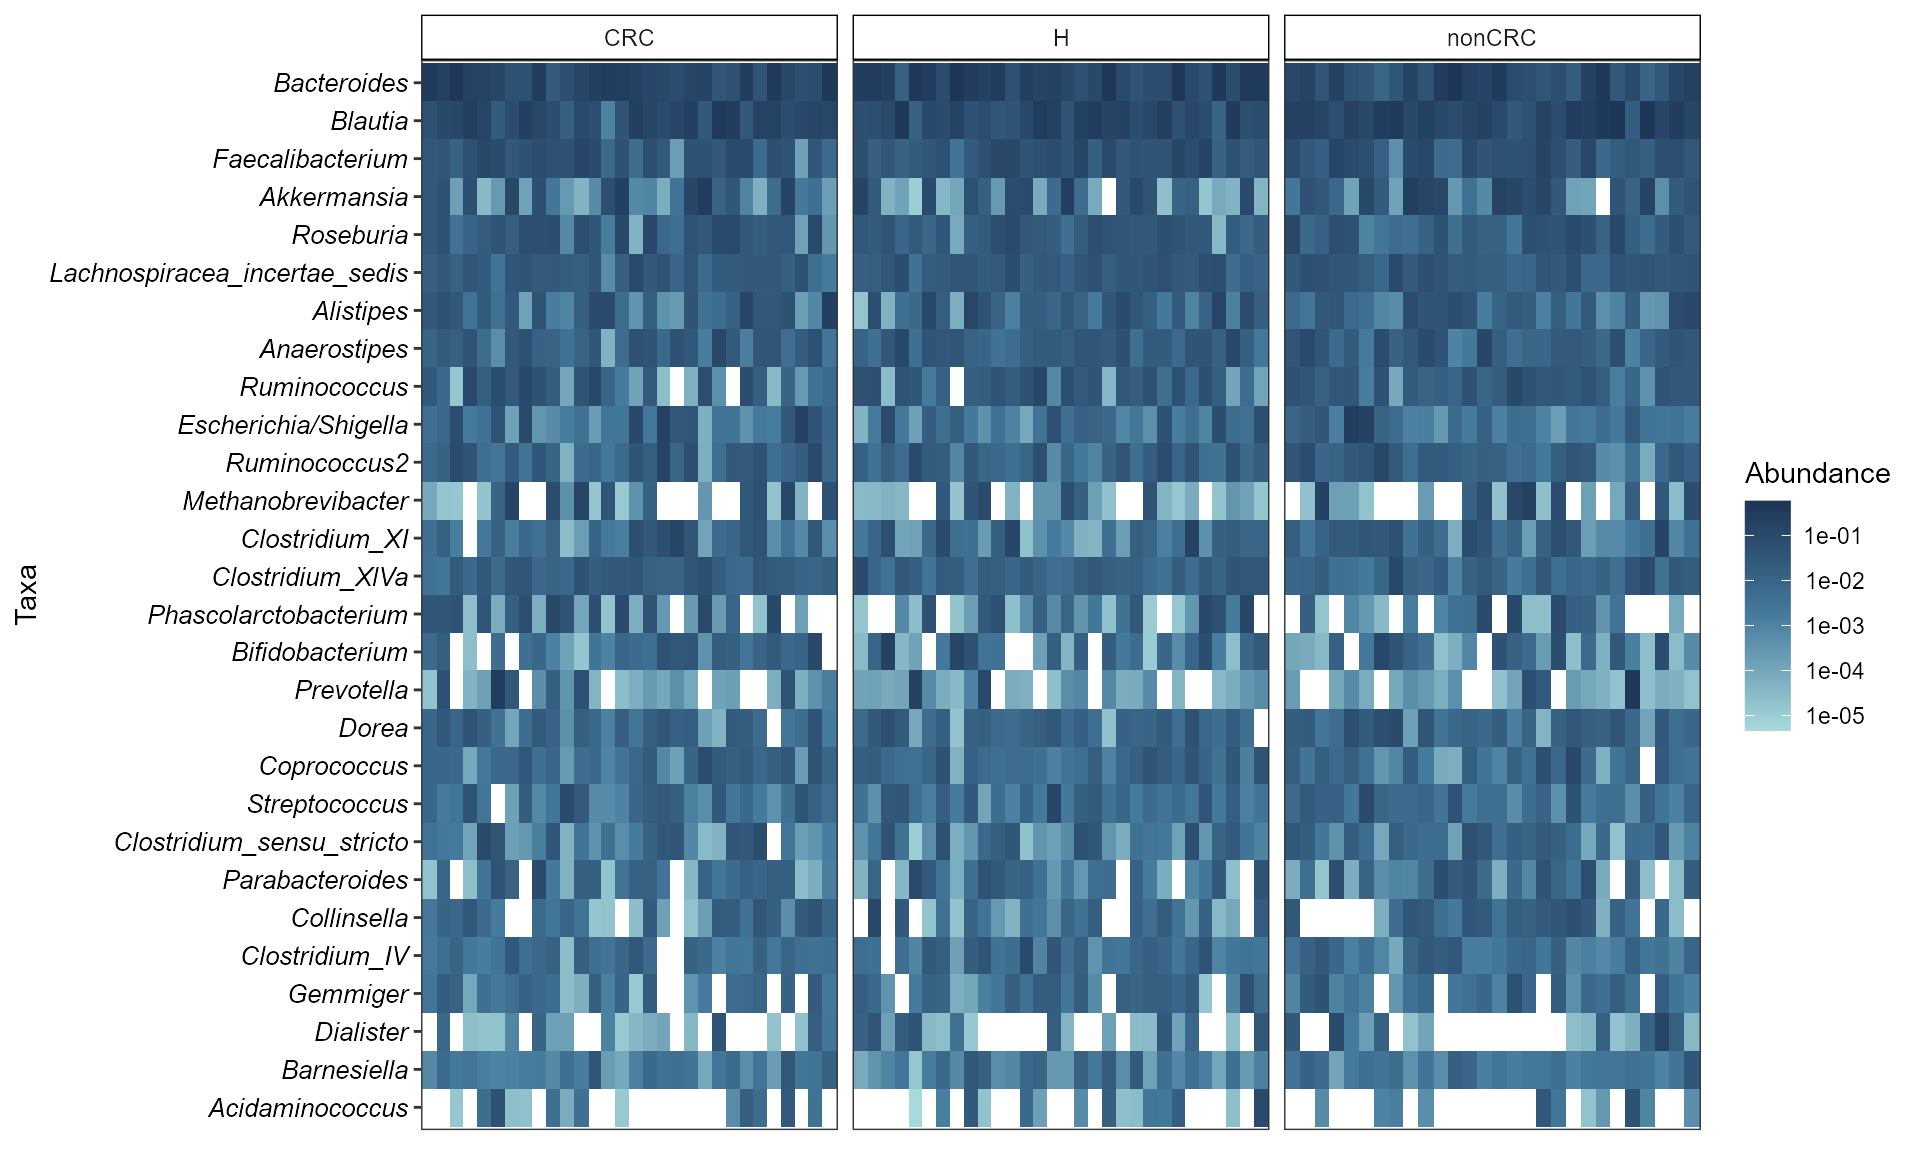
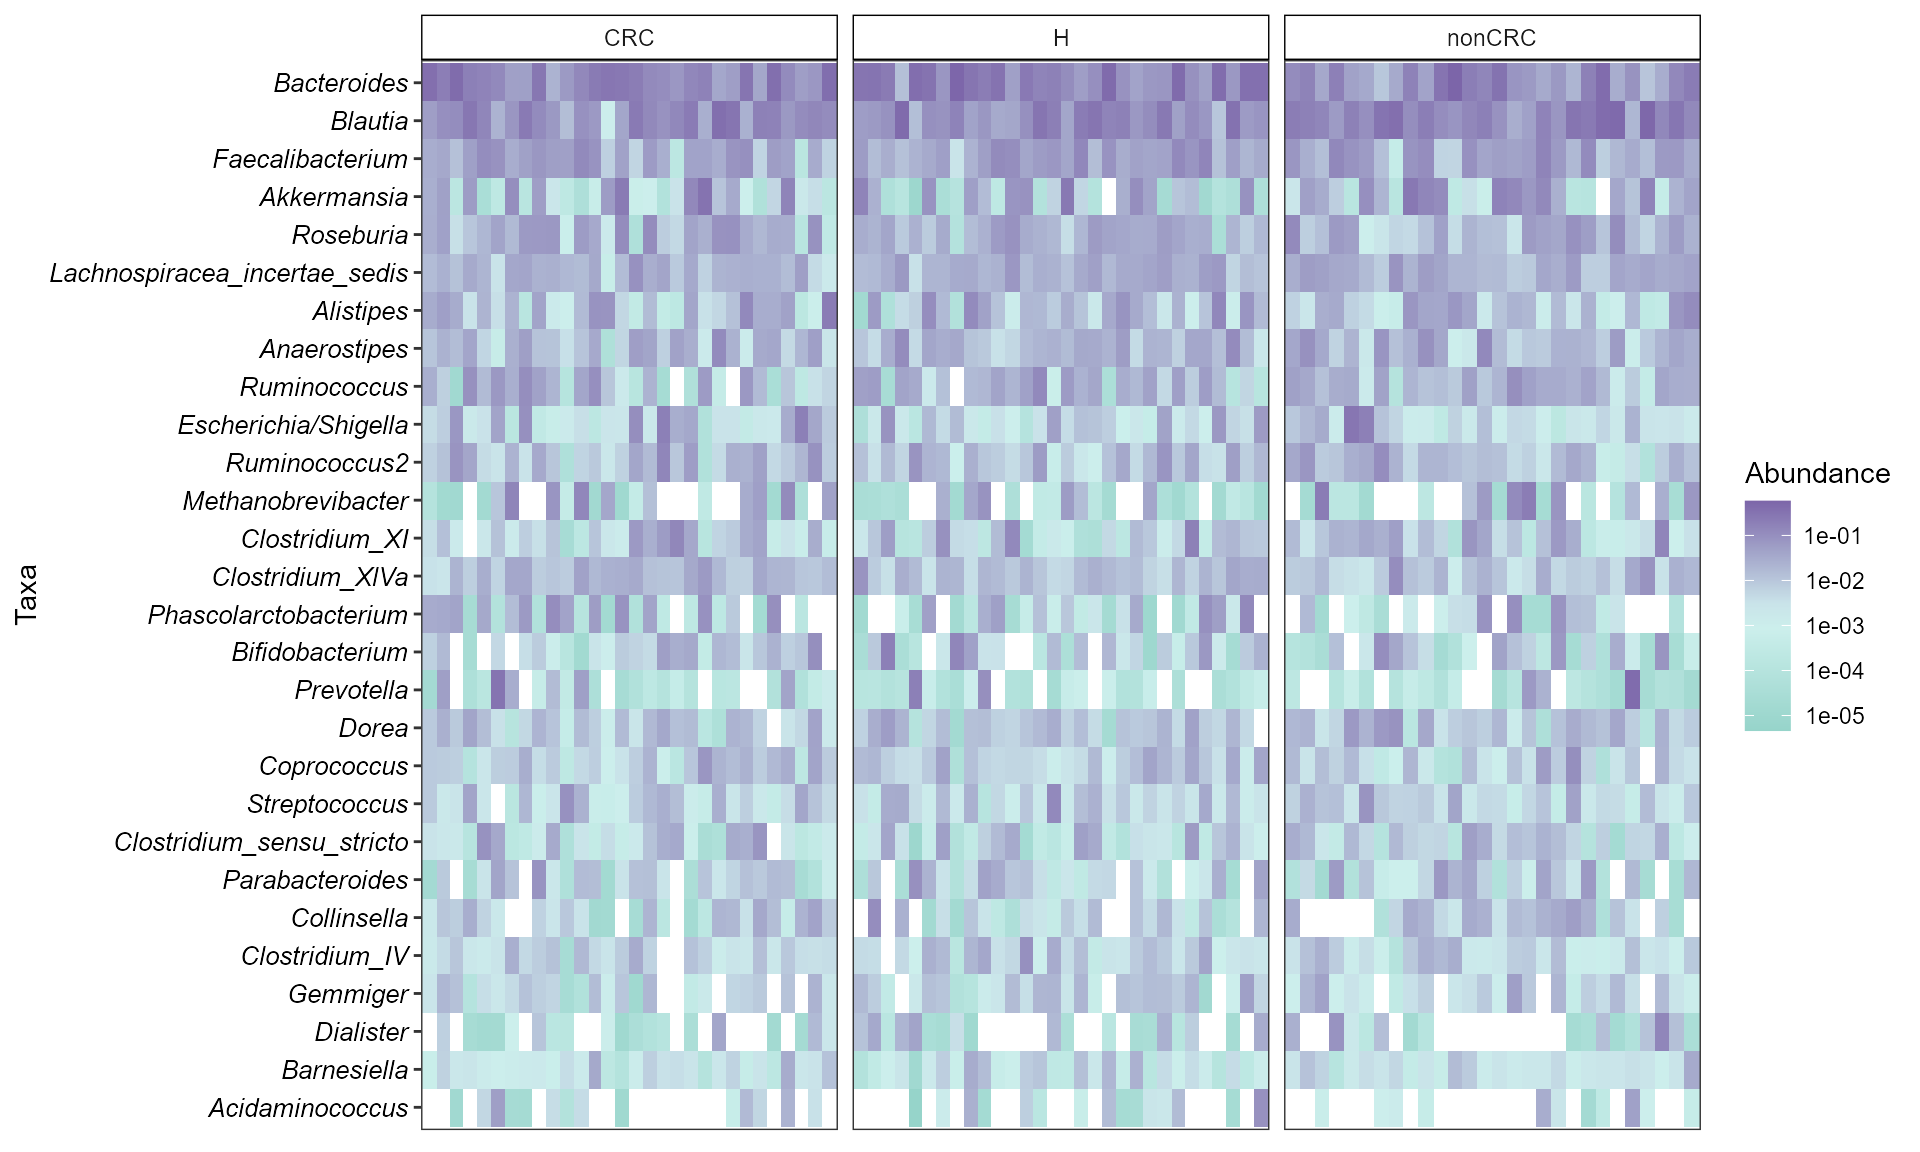
up

diff --git a/docs/articles/microbiomeutilities.html b/docs/articles/microbiomeutilities.html
@@ -651,6 +651,7 @@ This best works with cleaned taxonomy table.</empty></p>
 <h3 class="hasAnchor">
 <a href="#rarefaction-curves-for-alpha-diversity-indices" class="anchor"></a>Rarefaction curves for alpha diversity indices</h3>
 <p>A common approach to check for sequencing depth and diversity measures.</p>
+<p><em>NOTE:</em> This can take sometime to complete.</p>
 <div class="sourceCode" id="cb15"><pre class="downlit">
 <span class="fu"><a href="https://rdrr.io/r/base/library.html">library</a></span>(<span class="kw">microbiomeutilities</span>)
 <span class="fu"><a href="https://rdrr.io/r/utils/data.html">data</a></span>(<span class="st">"zackular2014"</span>)
@@ -672,7 +673,7 @@ This best works with cleaned taxonomy table.</empty></p>
   <span class="fu">scale_fill_manual</span>(values = <span class="kw">mycols</span>)
 <span class="fu"><a href="https://rdrr.io/r/base/print.html">print</a></span>(<span class="kw">p</span>)
 </pre></div>
-<p><img src="microbiomeutilities_files/figure-html/unnamed-chunk-15-1.png" width="700"></p>
+<p><img src="microbiomeutilities_files/figure-html/unnamed-chunk-15-1.png" width="576" style="display: block; margin: auto;"></p>
 </div>
 <div id="plot-alpha-diversities" class="section level3">
 <h3 class="hasAnchor">
@@ -694,7 +695,7 @@ This best works with cleaned taxonomy table.</empty></p>
 <span class="fu"><a href="https://rdrr.io/r/base/print.html">print</a></span>(<span class="kw">p</span> <span class="op">+</span> <span class="fu"><a href="../reference/theme_biome_utils.html">theme_biome_utils</a></span>() <span class="op">+</span> 
         <span class="kw">ggplot2</span>::<span class="fu"><a href="https://ggplot2.tidyverse.org/reference/theme.html">theme</a></span>(legend.position = <span class="st">"top"</span>,                                               text = <span class="fu">element_text</span>(size=<span class="fl">14</span>)))
 </pre></div>
-<p><img src="microbiomeutilities_files/figure-html/unnamed-chunk-16-1.png" width="576"></p>
+<p><img src="microbiomeutilities_files/figure-html/unnamed-chunk-16-1.png" width="576" style="display: block; margin: auto;"></p>
 <div class="sourceCode" id="cb17"><pre class="downlit">
 <span class="kw">comps</span> <span class="op">&lt;-</span> <span class="fu"><a href="../reference/make_pairs.html">make_pairs</a></span>(<span class="fu">sample_data</span>(<span class="kw">ps0</span>)<span class="op">$</span><span class="kw">DiseaseState</span>)
 
@@ -707,7 +708,7 @@ This best works with cleaned taxonomy table.</empty></p>
 <span class="co">#&gt; Warning in wilcox.test.default(c(7855, 4967, 16964, 6997, 11425, 17013, : cannot</span>
 <span class="co">#&gt; compute exact p-value with ties</span>
 </pre></div>
-<p><img src="microbiomeutilities_files/figure-html/unnamed-chunk-17-1.png" width="768"></p>
+<p><img src="microbiomeutilities_files/figure-html/unnamed-chunk-17-1.png" width="768" style="display: block; margin: auto;"></p>
 <p>Alternatively, one can plot one index at a time with pair-wise stats.</p>
 <div class="sourceCode" id="cb18"><pre class="downlit">
 
@@ -725,7 +726,7 @@ This best works with cleaned taxonomy table.</empty></p>
                             stats = <span class="fl">TRUE</span>)
 <span class="kw">p.m</span> <span class="op">+</span> <span class="fu">ylab</span>(<span class="st">"Shannon Diversity"</span>) <span class="op">+</span> <span class="fu">xlab</span>(<span class="st">""</span>)
 </pre></div>
-<p><img src="microbiomeutilities_files/figure-html/unnamed-chunk-18-1.png" width="384"></p>
+<p><img src="microbiomeutilities_files/figure-html/unnamed-chunk-18-1.png" width="384" style="display: block; margin: auto;"></p>
 <div class="sourceCode" id="cb19"><pre class="downlit">
 <span class="fu"><a href="https://rdrr.io/r/base/library.html">library</a></span>(<span class="kw"><a href="http://microbiome.github.io/microbiome">microbiome</a></span>)
 <span class="fu"><a href="https://rdrr.io/r/base/library.html">library</a></span>(<span class="kw">microbiomeutilities</span>)
@@ -798,7 +799,7 @@ This best works with cleaned taxonomy table.</empty></p>
 
 <span class="fu"><a href="https://rdrr.io/r/base/print.html">print</a></span>(<span class="kw">pn</span> <span class="op">+</span> <span class="fu"><a href="../reference/theme_biome_utils.html">theme_biome_utils</a></span>())
 </pre></div>
-<p><img src="microbiomeutilities_files/figure-html/unnamed-chunk-21-1.png" width="672"></p>
+<p><img src="microbiomeutilities_files/figure-html/unnamed-chunk-21-1.png" width="672" style="display: block; margin: auto;"></p>
 </div>
 <div id="plotting-selected-taxa" class="section level3">
 <h3 class="hasAnchor">
@@ -827,7 +828,7 @@ This best works with cleaned taxonomy table.</empty></p>
 <span class="co">#&gt; An additonal column Sam_rep with sample names is created for reference purpose</span>
 <span class="fu"><a href="https://rdrr.io/r/base/print.html">print</a></span>(<span class="kw">p</span> <span class="op">+</span> <span class="fu">ylab</span>(<span class="st">"Relative abundance"</span>) <span class="op">+</span> <span class="fu">scale_y_continuous</span>(labels = <span class="kw">scales</span>::<span class="kw"><a href="https://scales.r-lib.org//reference/label_percent.html">percent</a></span>))
 </pre></div>
-<p><img src="microbiomeutilities_files/figure-html/unnamed-chunk-22-1.png" width="700"></p>
+<p><img src="microbiomeutilities_files/figure-html/unnamed-chunk-22-1.png" width="700" style="display: block; margin: auto;"></p>
 <p>Adding statistical test with <code><a href="https://rdrr.io/pkg/ggpubr/man/stat_compare_means.html">ggpubr::stat_compare_means()</a></code></p>
 <div class="sourceCode" id="cb23"><pre class="downlit">
 
@@ -849,7 +850,7 @@ This best works with cleaned taxonomy table.</empty></p>
       method = <span class="st">"wilcox.test"</span>)
 <span class="kw">p</span>
 </pre></div>
-<p><img src="microbiomeutilities_files/figure-html/unnamed-chunk-23-1.png" width="700"></p>
+<p><img src="microbiomeutilities_files/figure-html/unnamed-chunk-23-1.png" width="700" style="display: block; margin: auto;"></p>
 <p>Plot top four Genera</p>
 <div class="sourceCode" id="cb24"><pre class="downlit">
 <span class="fu"><a href="https://rdrr.io/r/base/library.html">library</a></span>(<span class="kw"><a href="http://microbiome.github.io/microbiome">microbiome</a></span>)
@@ -885,7 +886,7 @@ This best works with cleaned taxonomy table.</empty></p>
 <span class="co">#&gt; Warning in wilcox.test.default(c(0.0242631263865901, 5.19237758969832e-05, :</span>
 <span class="co">#&gt; cannot compute exact p-value with ties</span>
 </pre></div>
-<p><img src="microbiomeutilities_files/figure-html/unnamed-chunk-24-1.png" width="576"></p>
+<p><img src="microbiomeutilities_files/figure-html/unnamed-chunk-24-1.png" width="576" style="display: block; margin: auto;"></p>
 </div>
 <div id="abundance-prevalence-relationship" class="section level3">
 <h3 class="hasAnchor">
@@ -917,17 +918,13 @@ This can be useful in identifying highly prevalent taxa and thier mean relative 
                        size = <span class="fl">20</span>, 
                        replace = <span class="fl">TRUE</span>,
                        label.color=<span class="st">"#5f0f40"</span>)  
-<span class="co">#&gt; Make sure to set.seed</span>
-<span class="co">#&gt; Joining, by = "Taxa"</span>
-<span class="co">#&gt; Joining, by = "Taxa"</span>
-<span class="co">#&gt; Joining, by = "Taxa"</span>
 <span class="kw">p_v</span> <span class="op">&lt;-</span> <span class="kw">p_v</span> <span class="op">+</span> 
   <span class="fu">geom_vline</span>(xintercept = <span class="fl">0.95</span>, lty=<span class="st">"dashed"</span>, alpha=<span class="fl">0.7</span>) <span class="op">+</span> 
   <span class="fu">geom_hline</span>(yintercept = <span class="fl">0.01</span>,lty=<span class="st">"dashed"</span>, alpha=<span class="fl">0.7</span>) <span class="op">+</span>
   <span class="fu">scale_color_brewer</span>(palette = <span class="st">"Dark2"</span>)
 <span class="kw">p_v</span>
 </pre></div>
-<p><img src="microbiomeutilities_files/figure-html/unnamed-chunk-25-1.png" width="576"></p>
+<p><img src="microbiomeutilities_files/figure-html/unnamed-chunk-25-1.png" width="576" style="display: block; margin: auto;"></p>
 </div>
 </div>
 <div id="microbiota-plasticity" class="section level2">
@@ -983,7 +980,7 @@ This can be useful in identifying highly prevalent taxa and thier mean relative 
   <span class="fu"><a href="https://rdrr.io/pkg/ggpubr/man/stat_compare_means.html">stat_compare_means</a></span>() <span class="op">+</span> 
   <span class="fu"><a href="../reference/theme_biome_utils.html">theme_biome_utils</a></span>()
 </pre></div>
-<p><img src="microbiomeutilities_files/figure-html/unnamed-chunk-27-1.png" width="700"></p>
+<p><img src="microbiomeutilities_files/figure-html/unnamed-chunk-27-1.png" width="384" style="display: block; margin: auto;"></p>
 </div>
 </div>
 <div id="heatmaps" class="section level2">
@@ -1034,7 +1031,7 @@ This can be useful in identifying highly prevalent taxa and thier mean relative 
 <span class="co">#&gt; Warning in transform(phyobj1, "log10"): OTU table contains zeroes. Using log10(1</span>
 <span class="co">#&gt; + x) transform.</span>
 </pre></div>
-<p><img src="microbiomeutilities_files/figure-html/unnamed-chunk-28-1.png" width="768"></p>
+<p><img src="microbiomeutilities_files/figure-html/unnamed-chunk-28-1.png" width="768" style="display: block; margin: auto;"></p>
 <div class="sourceCode" id="cb29"><pre class="downlit">
 <span class="co">#the plot is stored here</span>
 <span class="kw">p</span><span class="op">$</span><span class="kw">plot</span>
@@ -1051,7 +1048,10 @@ This can be useful in identifying highly prevalent taxa and thier mean relative 
 <span class="fu"><a href="https://rdrr.io/r/utils/data.html">data</a></span>(<span class="st">"zackular2014"</span>)
 <span class="kw">p0</span> <span class="op">&lt;-</span> <span class="kw">zackular2014</span>
 <span class="kw">p0.rel</span> <span class="op">&lt;-</span> <span class="fu"><a href="https://rdrr.io/pkg/microbiome/man/transform.html">transform</a></span>(<span class="kw">p0</span>, <span class="st">"compositional"</span>)
-<span class="kw">heat.cols</span> <span class="op">&lt;-</span> <span class="fu"><a href="https://rdrr.io/r/base/c.html">c</a></span>(<span class="st">"#a8dadc"</span>,<span class="st">"#457b9d"</span>, <span class="st">"#1d3557"</span>)
+<span class="co">#heat.cols &lt;- c("#a8dadc","#457b9d", "#1d3557")</span>
+<span class="co"># create a gradient color palette for abundance</span>
+<span class="kw">grad_ab</span> <span class="op">&lt;-</span> <span class="fu"><a href="https://rdrr.io/r/grDevices/colorRamp.html">colorRampPalette</a></span>(<span class="fu"><a href="https://rdrr.io/r/base/c.html">c</a></span>(<span class="st">"#96d4ca"</span>,<span class="st">"#d3f3f1"</span>, <span class="st">"#7c65a9"</span>))
+<span class="kw">heat.cols</span> <span class="op">&lt;-</span> <span class="fu">grad_ab</span>(<span class="fl">10</span>)
 <span class="fu"><a href="../reference/simple_heatmap.html">simple_heatmap</a></span>(<span class="kw">p0.rel</span>,
                group.facet = <span class="st">"DiseaseState"</span>,
                group.order = <span class="kw">NULL</span>,
@@ -1068,7 +1068,7 @@ This can be useful in identifying highly prevalent taxa and thier mean relative 
                nrow=<span class="kw">NULL</span>)
 <span class="co">#&gt; Warning: Transformation introduced infinite values in discrete y-axis</span>
 </pre></div>
-<p><img src="microbiomeutilities_files/figure-html/unnamed-chunk-30-1.png" width="960"></p>
+<p><img src="microbiomeutilities_files/figure-html/unnamed-chunk-30-1.png" width="960" style="display: block; margin: auto;"></p>
 </div>
 </div>
 <div id="microbiomehd-datasets-as-phyloseq-objects" class="section level2">
